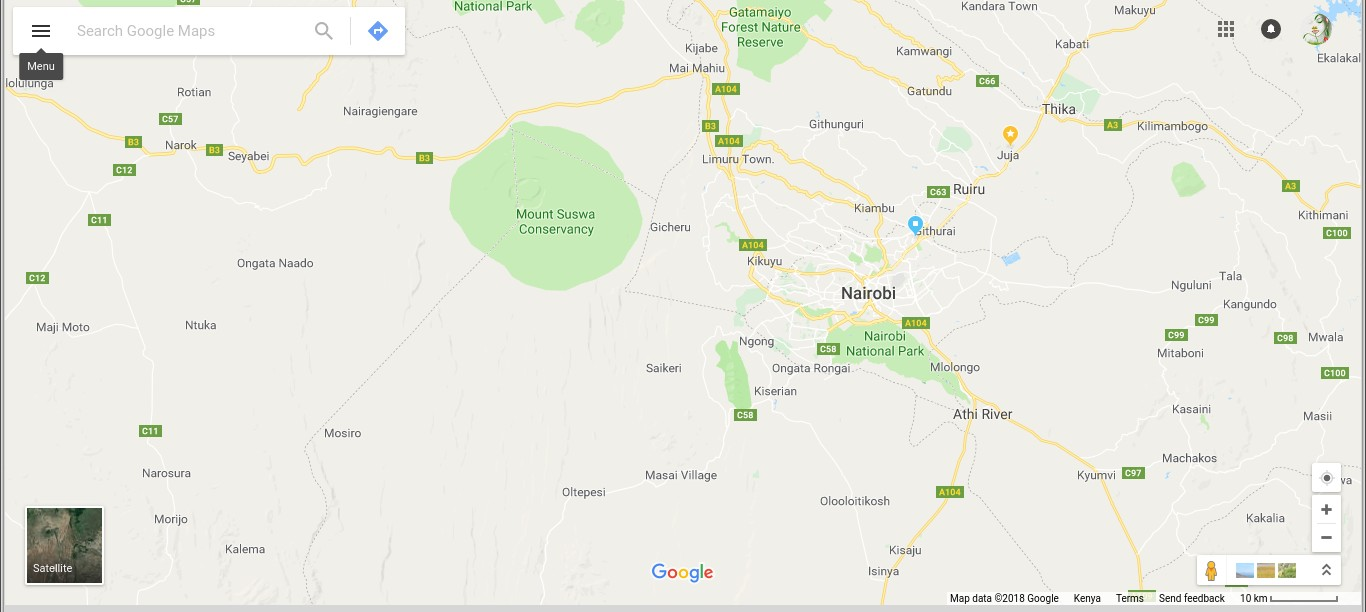
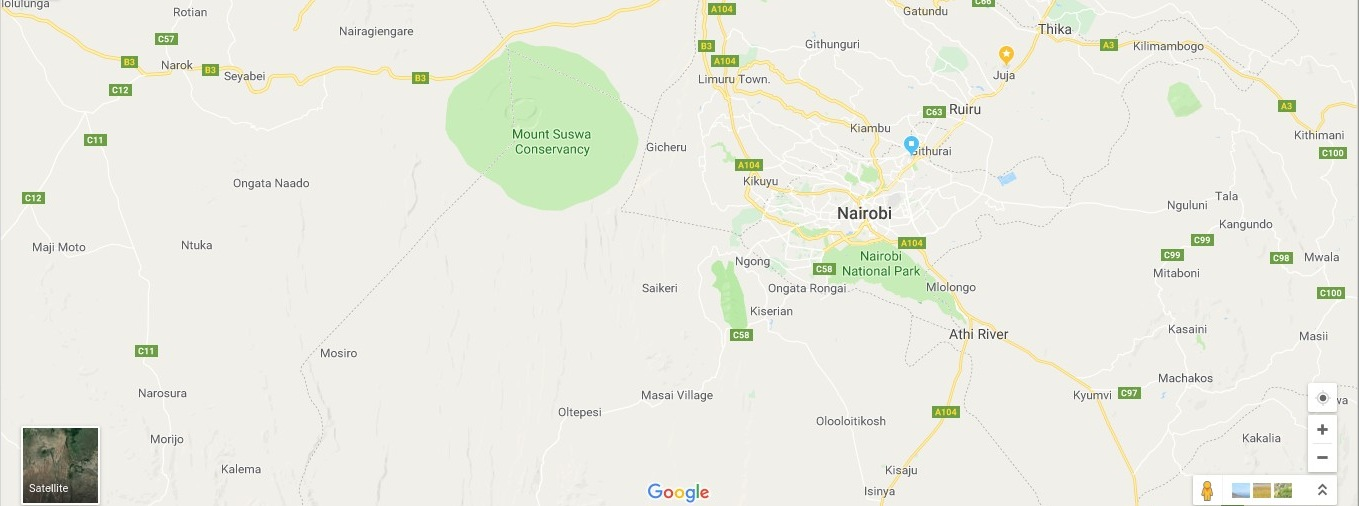
[bug #158410395] fix background body

diff --git a/static/stylesheet.css b/static/stylesheet.css
@@ -335,9 +335,13 @@ footer{
 
 .image{
     background-size: cover;
-    position: fixed;
+    /* position: fixed; */
+    height: 100%;
     z-index: 0;
     
+}
+#foo{
+    top:105%;
 }
 .navitems{
         display: flex;
@@ -575,10 +579,11 @@ input:checked + .slide{
     padding:9% 0% 0% 0%
 }
 /* google map */
-/* #map{
+#map{
     position:absolute;
-    z-index: 0;
-} */
+    width:100%;
+    height:100%;
+}
 
 /* USER DASHBOARD */
 div#requestRide{

diff --git a/dashboard.html b/dashboard.html
@@ -60,7 +60,7 @@
             
             <div class="sidenav"><p>settings</p></div>
         </div>
-        <footer class= "footerSection">
+        <footer id="foo" class= "footerSection">
             @Naibor
         </footer>
         <!-- table of requests modal -->

diff --git a/user-dashboard.html b/user-dashboard.html
@@ -59,7 +59,7 @@
             <div class="sidenav"><p>settings</p></div>
         </div>
         <!-- footer -->
-        <footer>
+        <footer id="foo">
             @Naibor
         </footer>
         <!-- user table modal -->
